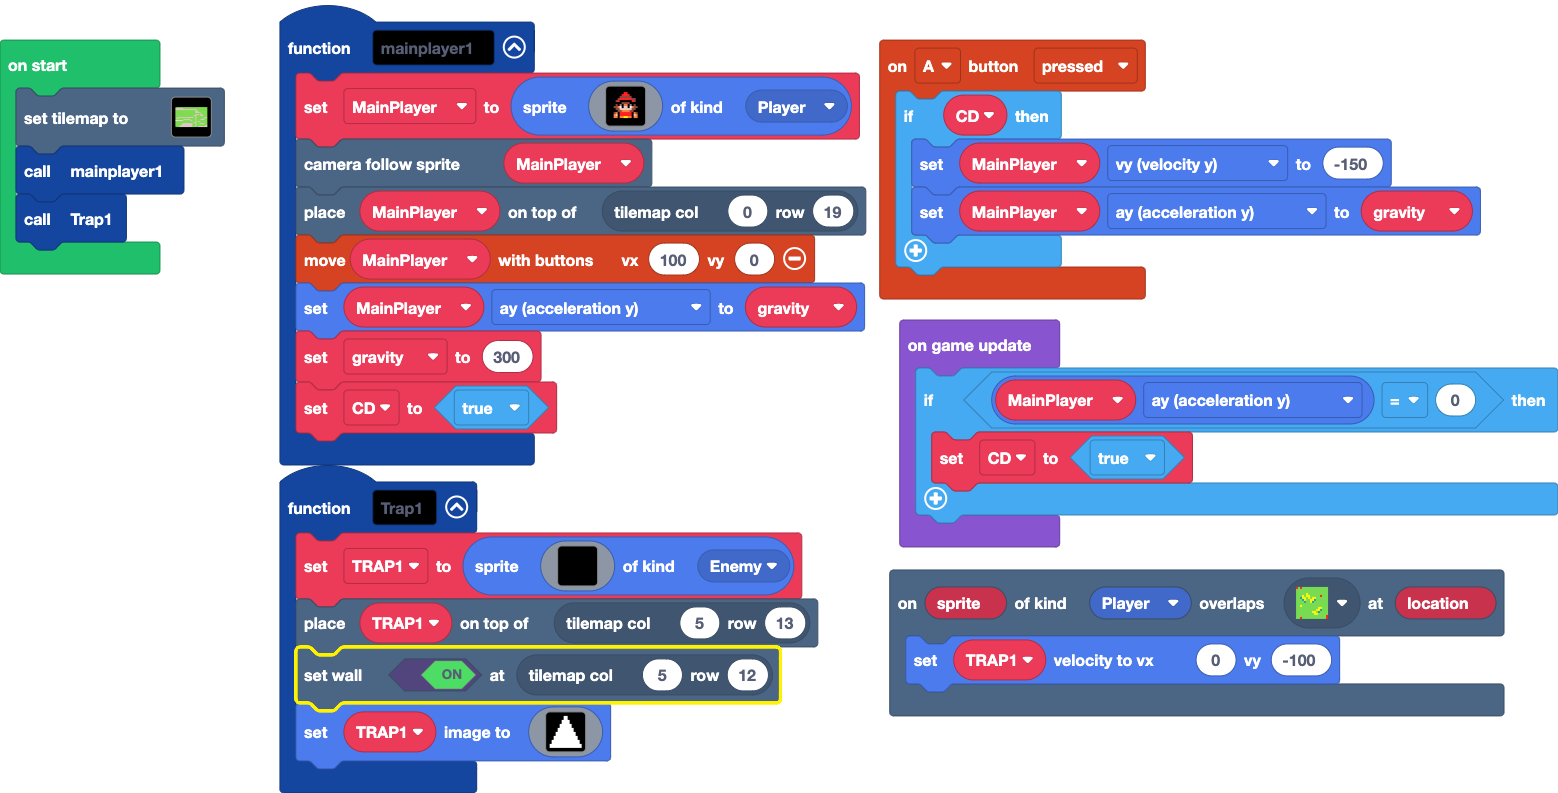
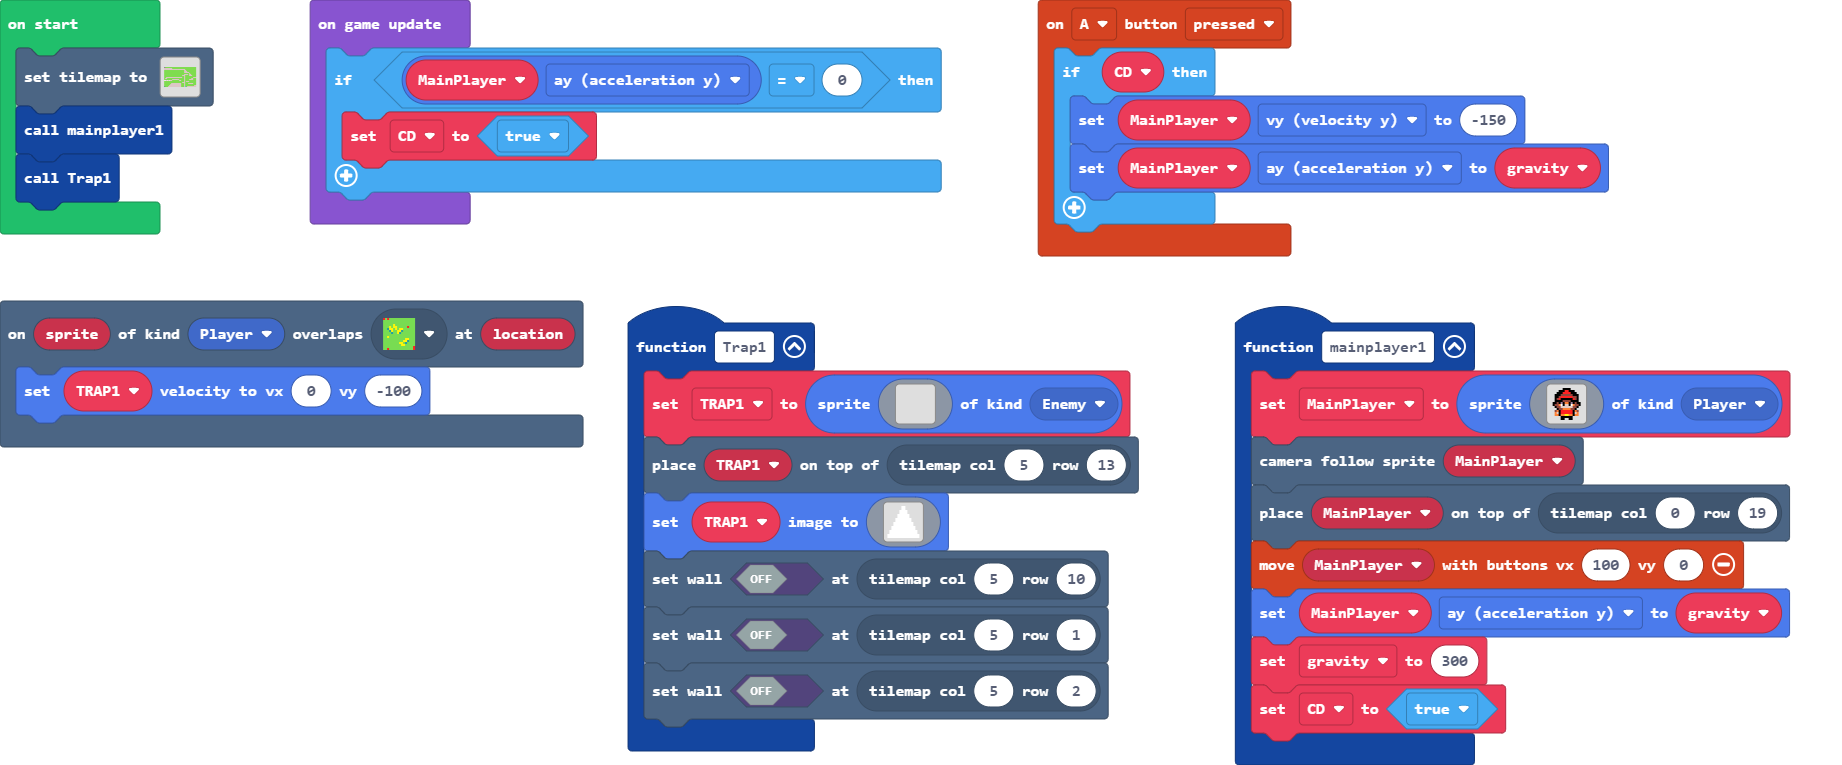
Update pxt.json, main.blocks, main.ts

diff --git a/main.ts b/main.ts
@@ -24,7 +24,6 @@ function Trap1 () {
         . . . . . . . . . . . . . . . . 
         `, SpriteKind.Enemy)
     tiles.placeOnTile(TRAP1, tiles.getTileLocation(5, 13))
-    tiles.setWallAt(tiles.getTileLocation(5, 12), true)
     TRAP1.setImage(img`
         . . . . . . . 1 1 . . . . . . . 
         . . . . . . . 1 1 . . . . . . . 
@@ -43,6 +42,9 @@ function Trap1 () {
         1 1 1 1 1 1 1 1 1 1 1 1 1 1 1 1 
         1 1 1 1 1 1 1 1 1 1 1 1 1 1 1 1 
         `)
+    tiles.setWallAt(tiles.getTileLocation(5, 10), false)
+    tiles.setWallAt(tiles.getTileLocation(5, 1), false)
+    tiles.setWallAt(tiles.getTileLocation(5, 2), false)
 }
 scene.onOverlapTile(SpriteKind.Player, assets.tile`myTile10`, function (sprite, location) {
     TRAP1.setVelocity(0, -100)
